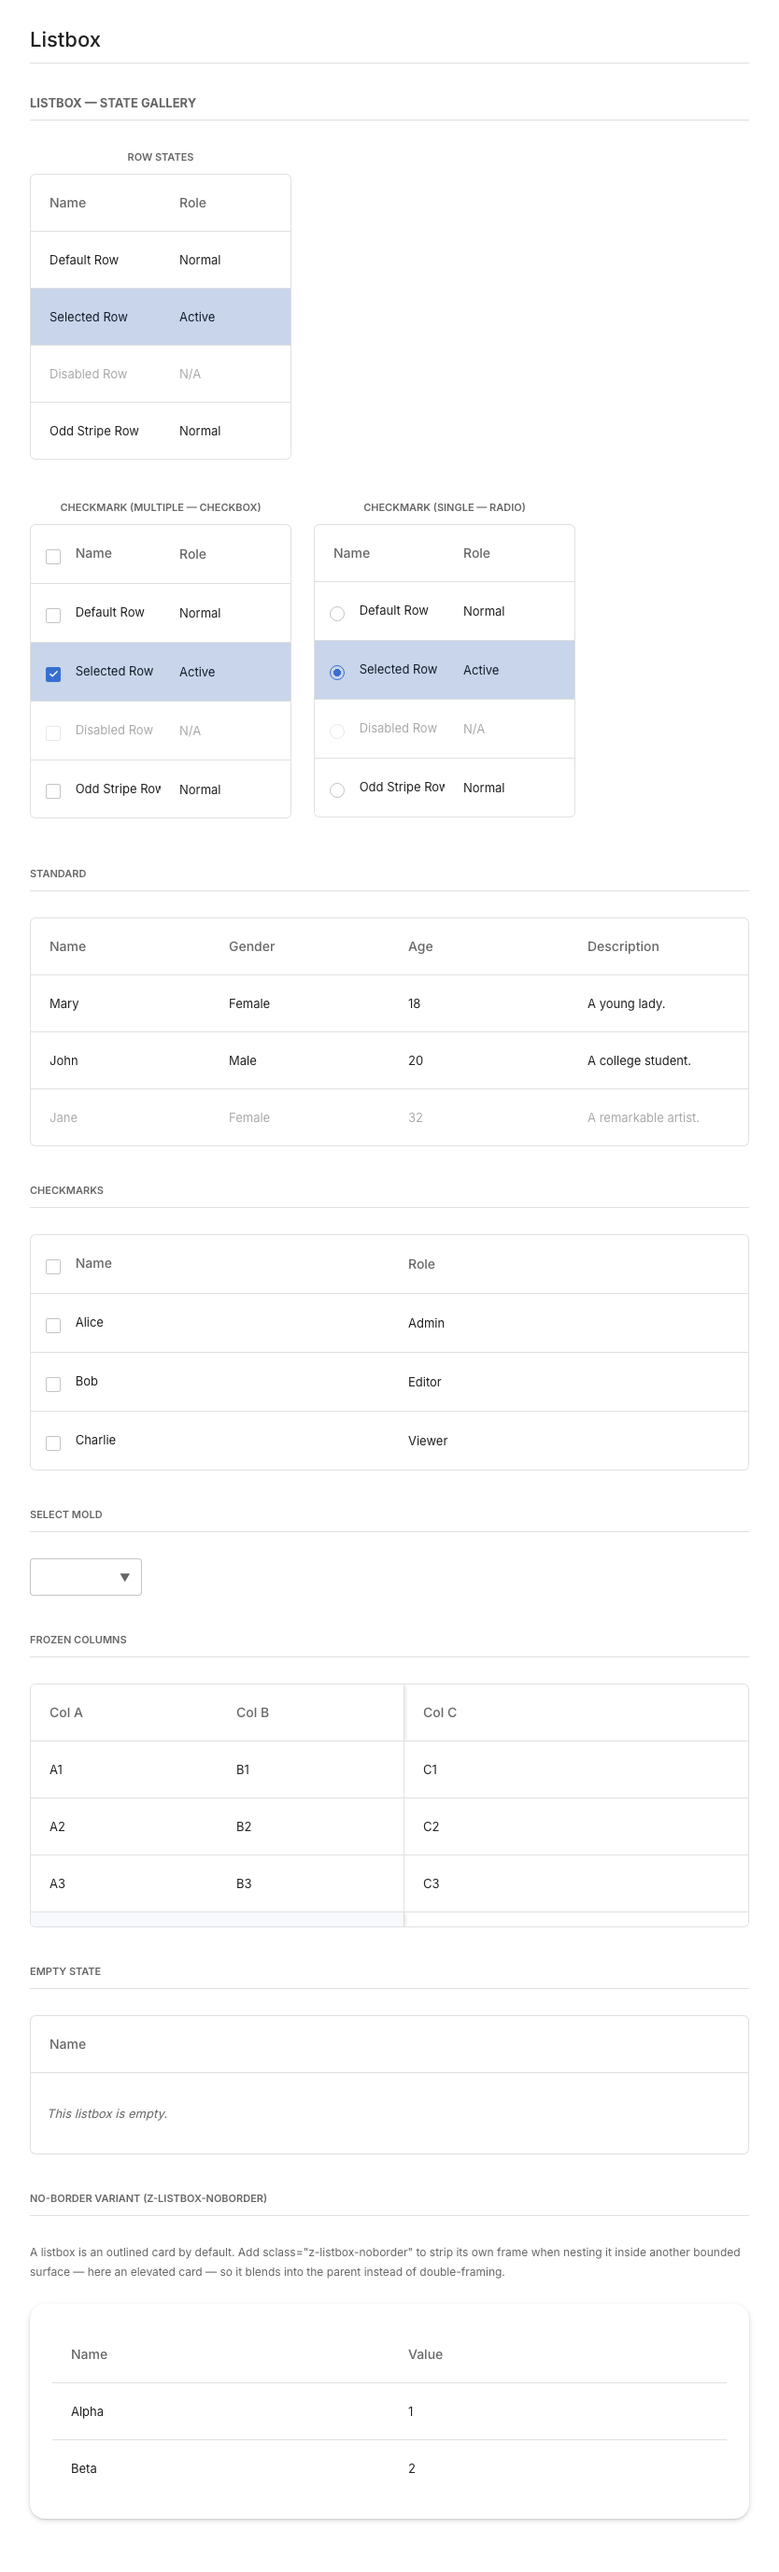
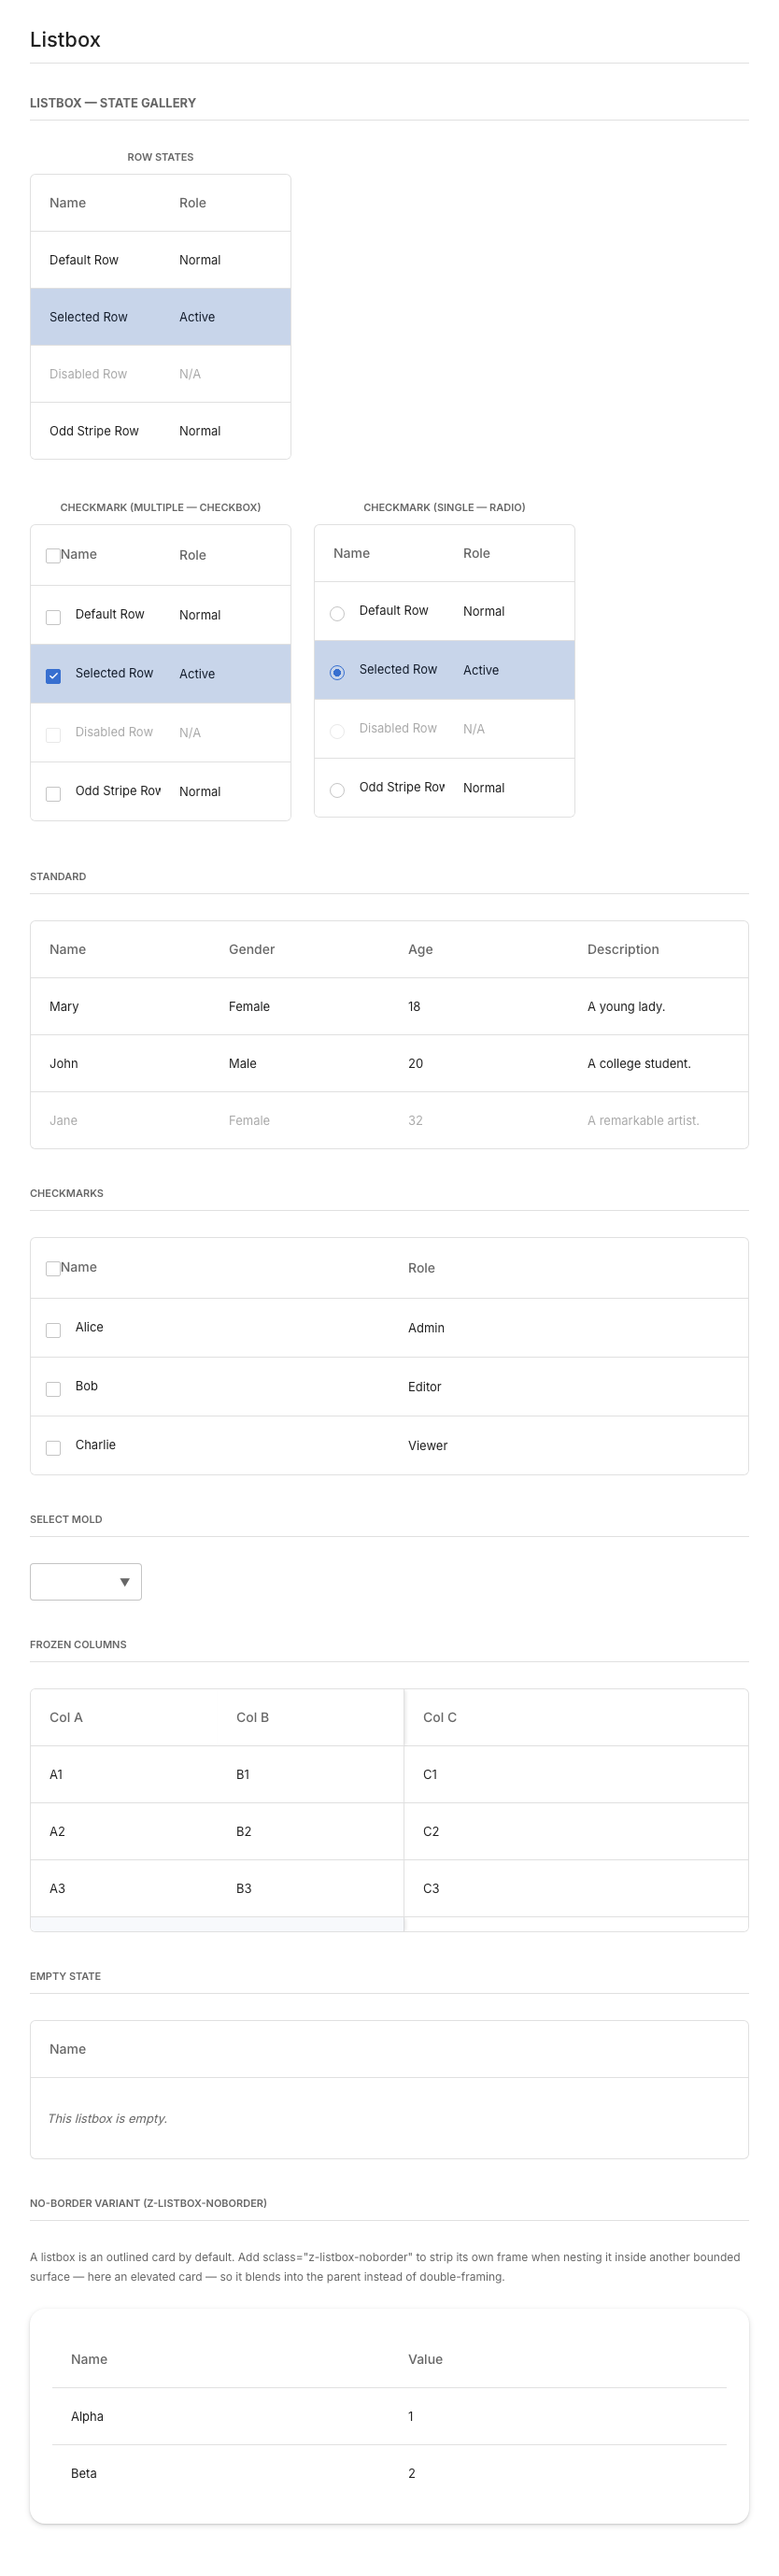
ZK-6112: keep the listbox checkbox-only header free of the ellipsis dot and refresh the single-line header comments (zkdemo D14)

diff --git a/zkpreview/src/test/playwright/mesh-header-footer.spec.ts b/zkpreview/src/test/playwright/mesh-header-footer.spec.ts
@@ -3,8 +3,11 @@ import { test, expect, Page } from '@playwright/test';
 // Guard for the Grid, Listbox and Tree header and footer CSS (ZK-6112, D11-D13):
 //  - the sort arrow is 12x12 in all three (grid.css gave Grid 14px through `.z-column [class*="z-icon-"]`);
 //  - the label box of a narrow sorted column stops short of the arrow, with and without a column-menu
-//    button and with an image in the header (Grid, Listbox and Tree clip with an ellipsis);
+//    button and with an image in the header (Grid and Listbox clip with an ellipsis; a Tree header with an
+//    image clips without one, the accepted trade-off of 5830d574ee because it keeps the flex centring);
 //  - a narrow Listbox header stays on one line, as tall as the Grid header;
+//  - a Listbox header holding only the select-all box in a 40px column paints no ellipsis and keeps the box
+//    inside the header cell;
 //  - a Tree header holding an image, an icon or the select-all box keeps the label centred on it and the
 //    header at the height the old flex layout gave it;
 //  - footer text starts where the body text of the same column starts (`border-spacing: 2px` of the UA
@@ -175,4 +178,28 @@ test.describe('mesh header and footer', () => {
         .toBeCloseTo(expectedHeight, 0);
     });
   }
+
+  test('.mhf-listbox-checkable: a select-all-only 40px header paints no ellipsis and holds the whole box', async ({ page }) => {
+    await open(page);
+    const header = page.locator('.mhf-listbox-checkable th.z-listheader:nth-child(1)');
+    const measured = await header.evaluate((th) => {
+      const content = th.querySelector('.z-listheader-content')!;
+      const icon = th.querySelector('.z-listheader-icon')!.getBoundingClientRect();
+      const cell = th.getBoundingClientRect();
+      return {
+        overflows: content.scrollWidth > content.clientWidth,
+        textOverflow: getComputedStyle(content).textOverflow,
+        scrollWidth: content.scrollWidth,
+        clientWidth: content.clientWidth,
+        iconInsideCell: icon.left >= cell.left && icon.right <= cell.right,
+        iconLeft: icon.left, iconRight: icon.right, cellLeft: cell.left, cellRight: cell.right,
+      };
+    });
+    // An ellipsis only paints when the content overflows.
+    expect(measured.overflows && measured.textOverflow === 'ellipsis',
+      `scrollWidth ${measured.scrollWidth} > clientWidth ${measured.clientWidth} with text-overflow ${measured.textOverflow}`)
+      .toBe(false);
+    expect(measured.iconInsideCell,
+      `icon ${measured.iconLeft}-${measured.iconRight}, cell ${measured.cellLeft}-${measured.cellRight}`).toBe(true);
+  });
 });

diff --git a/zul/src/main/resources/web/js/zul/sel/css/listbox.css b/zul/src/main/resources/web/js/zul/sel/css/listbox.css
@@ -527,11 +527,14 @@
 .z-listheader:has(.z-listheader-checkable) {
     padding-left: var(--zk-spacing-1);
     padding-right: var(--zk-spacing-1);
-    /* Keep the select-all icon on one line. `.z-listheader` is `white-space: normal`
-       (so long text labels wrap), but the checkable span is 40px wide inside the ~32px
-       content box — with `normal` it wraps to a 2nd line and inflates the whole header
-       ROW (53→74px). An icon column never needs wrapping. */
-    white-space: nowrap;
+}
+
+/* An inline span ignores `max-width`, so in a width="40px" header its 40px (icon plus padding)
+   overflowed the ~32px content box and `.z-listheader-content` painted its ellipsis right of the
+   box. As an inline-block capped at the content width it fits, and the icon keeps its x. */
+.z-listheader-checkable {
+    display: inline-block;
+    max-width: 100%;
 }
 
 /* Narrow image/icon header column — same squeeze as the checkable column. A
@@ -539,13 +542,11 @@
    leaves only 8px of content width; the header image (ZK emits `<img>` with no
    class, subject to the global `img{max-width:100%}`) then shrinks below its
    intrinsic size AND the squeezed content wraps to a 2nd line, inflating the
-   whole header ROW. Collapse the side padding so a 16px icon renders full-size and
-   the row keeps its default height. See data-components.md → "Narrow icon/image
-   column". */
+   whole header ROW. Collapse the side padding so a 16px icon renders full-size. See
+   data-components.md → "Narrow icon/image column". */
 .z-listheader:has(img) {
     padding-left: var(--zk-spacing-1);
     padding-right: var(--zk-spacing-1);
-    white-space: nowrap;
 }
 
 /* A sortable header with an image still needs the sort icon's room, which the rule above (higher
